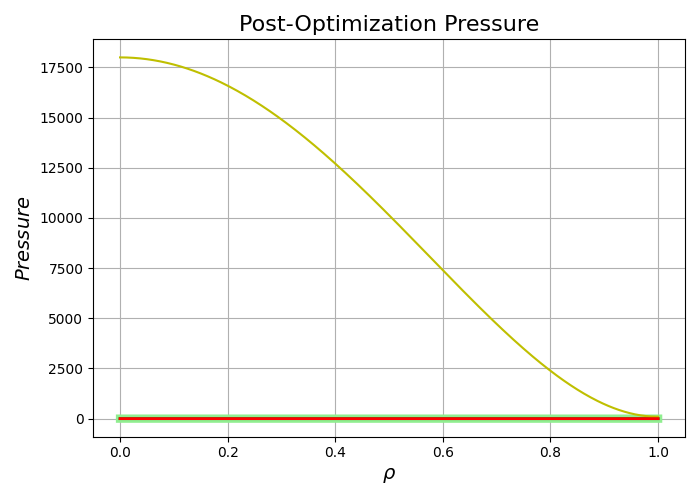
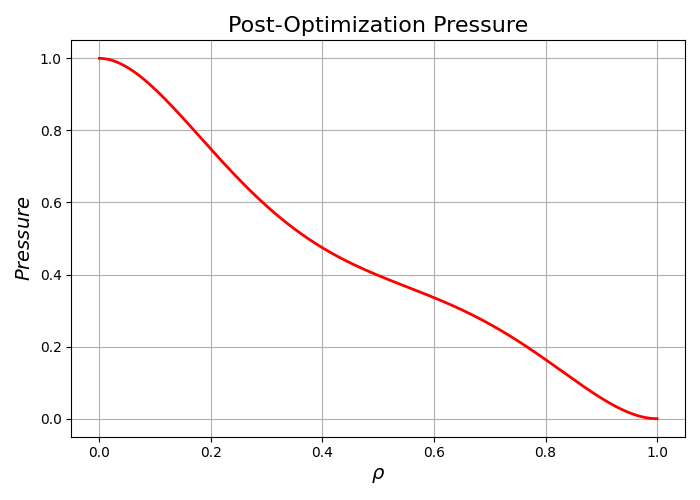
confirmed optimizer is modifying initial pressure profile. Unclear what order of magnitude of change in the initial pressure profile is needed to significantly change post-optimized pressure.

diff --git a/Scratch/Runs/poly/opt.py b/Scratch/Runs/poly/opt.py
@@ -26,9 +26,9 @@ from desc.objectives import (
 from desc.optimize import Optimizer
 
 
-#Loading Equilibria Family and Making a Copy of Final Iteration:
-eq_init_fixbound = desc.io.load("scratch/runs/poly/eq.h5") #initial equilibrium load - might need to generalize path
-eq_init = eq_init_fixbound[-1].copy() #copy of final eq in family
+#Loading Final Iteration of Equilibrium Family from eq.py
+eq_0 = desc.io.load("scratch/runs/poly/eq.h5") 
+eq_init = eq_0.copy() #copy of final eq in family
 
 
 
@@ -139,19 +139,21 @@ eq_opt.save('/Users/macdaddi/DESC/scratch/runs/poly/opt.h5')
 #------ Pre & Post Optimization Pressure Profile Plotting ------#
 rho = np.linspace(0, 1, 400)
 grid = LinearGrid(rho=rho, M=0, N=0)   
-pressure_init = eq_init.compute('p', grid=grid)['p']
+pressure_init = eq_0.compute('p', grid=grid)['p']
 pressure_opt = eq_opt.compute('p', grid=grid)['p']
 #
 plt.figure(figsize=(7,5))
-plt.plot(rho, pressure_init, linewidth=2, color='g',
-    path_effects=[
-        pe.Stroke(linewidth=6, foreground='lightgreen'),
-        pe.Normal()
-    ],
-    label='init'
-)
-plt.plot(rho, 1.8e4 -3.6e4*rho**2 + 1e2*rho**3 + 1.8e4*rho**4, color='y')
+
+#plt.plot(rho, 1.8e4 -3.6e4*rho**2 + 1e2*rho**3 + 1.8e4*rho**4, color='y')
+# plt.plot(rho, pressure_init, linewidth=2, color='g',
+#     path_effects=[
+#         pe.Stroke(linewidth=6, foreground='lightgreen'),
+#         pe.Normal()
+#     ],
+#     label='init'
+# )
 plt.plot(rho, pressure_opt, linewidth=2, color='r', label='opt')
+
 plt.xlabel(r"$\rho$", fontsize=14)
 plt.ylabel(r"$Pressure$", fontsize=14)
 plt.title("Post-Optimization Pressure", fontsize=16)

diff --git a/Scratch/Runs/poly/eq.py b/Scratch/Runs/poly/eq.py
@@ -32,7 +32,7 @@ surf= FourierRZToroidalSurface(
 
 #Initializing Pressure and Iota:
 pressure_init = PowerSeriesProfile(
-    [1.8e4, 0, -3.6e4, 1e2, 1.8e4]
+    [1.8e4, -1e5, -3.6e4, 1e2, 1.8e4]
 )  
 iota = PowerSeriesProfile([1, 0, 2]) 
 
@@ -51,7 +51,7 @@ eq = Equilibrium(
 
 
 #----------------------------------------------------------
-#Solving & Saving Equilibrium:
-eq_init= solve_continuation_automatic(eq.copy(), verbose=3)
+# Solving & Saving Equilibrium:
+eq_init = solve_continuation_automatic(eq.copy(), verbose=3)[-1] # final equilibrium
 eq_init.save('/Users/macdaddi/DESC/scratch/runs/poly/eq.h5')
 
